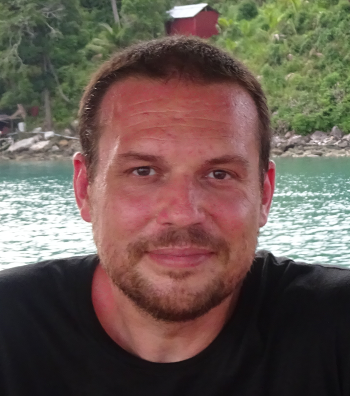
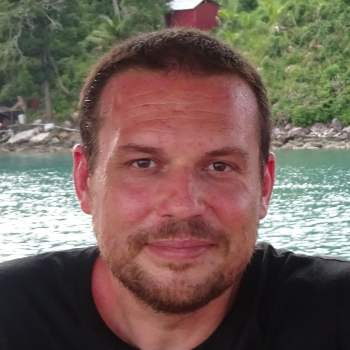
added some mugshot pictures

diff --git a/pages/consortium.md b/pages/consortium.md
@@ -44,7 +44,7 @@ Sorted by first name. A happy team!
 </td>
 
 <td style="text-align:center; font-size: 80%; font-weight: bold; border-style: none; padding-bottom: 30px;">
-<img src="../assets/mugshots/alfio_puglisi.png" style="width:200px;" />
+<img src="../assets/mugshots/alfio_puglisi.jpg" style="width:200px;" />
 <br>Alfio Puglisi<br>INAF-Arcetri
 </td>
 
@@ -123,7 +123,7 @@ Sorted by first name. A happy team!
 </td>
 <td style="text-align:center; font-size: 80%; font-weight: bold; border-style: none; padding-bottom: 30px;">
 <img src="../assets/mugshots/ciro_del_vecchio.png" style="width:200px;" />
-<br>Ciro Del Vecchio<br>INAF
+<br>Ciro Del Vecchio<br>INAF-Arcetri
 </td>
 <td style="text-align:center; font-size: 80%; font-weight: bold; border-style: none; padding-bottom: 30px;">
 <img src="../assets/mugshots/damien_gratadour.png" style="width:200px;" />
@@ -160,7 +160,7 @@ Sorted by first name. A happy team!
 <br>Davide Ricci<br>INAF-Padova
 </td>
 <td style="text-align:center; font-size: 80%; font-weight: bold; border-style: none; padding-bottom: 30px;">
-<img src="../assets/mugshots/demetrio_magrin.png" style="width:200px;" />
+<img src="../assets/mugshots/demetrio_magrin.jpg" style="width:200px;" />
 <br>Demetrio Magrin<br>INAF-Padova
 </td>
 <td style="text-align:center; font-size: 80%; font-weight: bold; border-style: none; padding-bottom: 30px;">
@@ -168,7 +168,7 @@ Sorted by first name. A happy team!
 <br>Dionne Haynes<br>Astralis-AITC
 </td>
 <td style="text-align:center; font-size: 80%; font-weight: bold; border-style: none; padding-bottom: 30px;">
-<img src="../assets/mugshots/edoardo_redaelli.png" style="width:200px;" />
+<img src="../assets/mugshots/edoardo_redaelli.jpg" style="width:200px;" />
 <br>Edoardo Redaelli<br>INAF-Milano
 </td>
 </tr>
@@ -285,7 +285,7 @@ Sorted by first name. A happy team!
 <tr>
 <td style="text-align:center; font-size: 80%; font-weight: bold; border-style: none; padding-bottom: 30px;">
 <img src="../assets/mugshots/luca_carbonaro.png" style="width:200px;" />
-<br>Luca Carbonaro<br>INAF
+<br>Luca Carbonaro<br>INAF-Arcetri
 </td>
 <td style="text-align:center; font-size: 80%; font-weight: bold; border-style: none; padding-bottom: 30px;">
 <img src="../assets/mugshots/luca_marafatto.jpg" style="width:200px;" />
@@ -347,7 +347,7 @@ Sorted by first name. A happy team!
 </td>
 <td style="text-align:center; font-size: 80%; font-weight: bold; border-style: none; padding-bottom: 30px;">
 <img src="../assets/mugshots/paolo_grani.png" style="width:200px;" />
-<br>Paolo Grani<br>INAF
+<br>Paolo Grani<br>INAF-Arcetri
 </td>
 <td style="text-align:center; font-size: 80%; font-weight: bold; border-style: none; padding-bottom: 30px;">
 <img src="../assets/mugshots/pierre_haguenauer.png" style="width:200px;" />
@@ -379,7 +379,7 @@ Sorted by first name. A happy team!
 </td>
 <td style="text-align:center; font-size: 80%; font-weight: bold; border-style: none; padding-bottom: 30px;">
 <img src="../assets/mugshots/runa_briguglio.png" style="width:200px;" />
-<br>Runa Briguglio<br>INAF
+<br>Runa Briguglio<br>INAF-Arcetri
 </td>
 <td style="text-align:center; font-size: 80%; font-weight: bold; border-style: none; padding-bottom: 30px;">
 <img src="../assets/mugshots/salvatore_savarese.jpg" style="width:200px;" />
@@ -403,16 +403,16 @@ Sorted by first name. A happy team!
 <img src="../assets/mugshots/simone_antoniucci.png" style="width:200px;" />
 <br>Simone Antoniucci<br>INAF-Roma
 </td>
-<td style="text-align:center; font-size: 80%; font-weight: bold; border-style: none; padding-bottom: 30px;">
+<!-- <td style="text-align:center; font-size: 80%; font-weight: bold; border-style: none; padding-bottom: 30px;">
 <img src="../assets/mugshots/simone_di_filippo.png" style="width:200px;" />
-<br>Simone Di Filippo<br>INAF
-</td>
-</tr>
-<tr>
+<br>Simone Di Filippo<br>INAF-Padova
+</td> -->
 <td style="text-align:center; font-size: 80%; font-weight: bold; border-style: none; padding-bottom: 30px;">
 <img src="../assets/mugshots/simone_esposito.jpg" style="width:200px;" />
 <br>Simone Esposito<br>INAF-Arcetri
 </td>
+</tr>
+<tr>
 <td style="text-align:center; font-size: 80%; font-weight: bold; border-style: none; padding-bottom: 30px;">
 <img src="../assets/mugshots/simonetta_chinellato.jpg" style="width:200px;" />
 <br>Simonetta Chinellato<br>INAF-Padova
@@ -425,14 +425,14 @@ Sorted by first name. A happy team!
 <img src="../assets/mugshots/stephanie_monty.png" style="width:200px;" />
 <br>Stephanie Monty<br>Astralis-AITC
 </td>
-</tr>
-<tr>
 <td style="text-align:center; font-size: 80%; font-weight: bold; border-style: none; padding-bottom: 30px;">
 <img src="../assets/mugshots/thierry_fusco.jpg" style="width:200px;" />
 <br>Thierry Fusco<br>LAM
 </td>
+</tr>
+<tr>
 <td style="text-align:center; font-size: 80%; font-weight: bold; border-style: none; padding-bottom: 30px;">
-<img src="../assets/mugshots/thomas_pfrommer.png" style="width:200px;" />
+<img src="../assets/mugshots/thomas_pfrommer.jpg" style="width:200px;" />
 <br>Thomas Pfrommer<br>ESO
 </td>
 <td style="text-align:center; font-size: 80%; font-weight: bold; border-style: none; padding-bottom: 30px;">
@@ -443,12 +443,12 @@ Sorted by first name. A happy team!
 <img src="../assets/mugshots/trevor_mendel.jpg" style="width:200px;" />
 <br>Trevor Mendel<br>Astralis-AITC
 </td>
-</tr>
-<tr>
 <td style="text-align:center; font-size: 80%; font-weight: bold; border-style: none; padding-bottom: 30px;">
 <img src="../assets/mugshots/valentina_viotto.jpg" style="width:200px;" />
 <br>Valentina Viotto<br>INAF-Padova
 </td>
+</tr>
+<tr>
 <td style="text-align:center; font-size: 80%; font-weight: bold; border-style: none; padding-bottom: 30px;">
 <img src="../assets/mugshots/vladimir_churilov.png" style="width:200px;" />
 <br>Vladimir Churilov<br>Astralis-AAO
